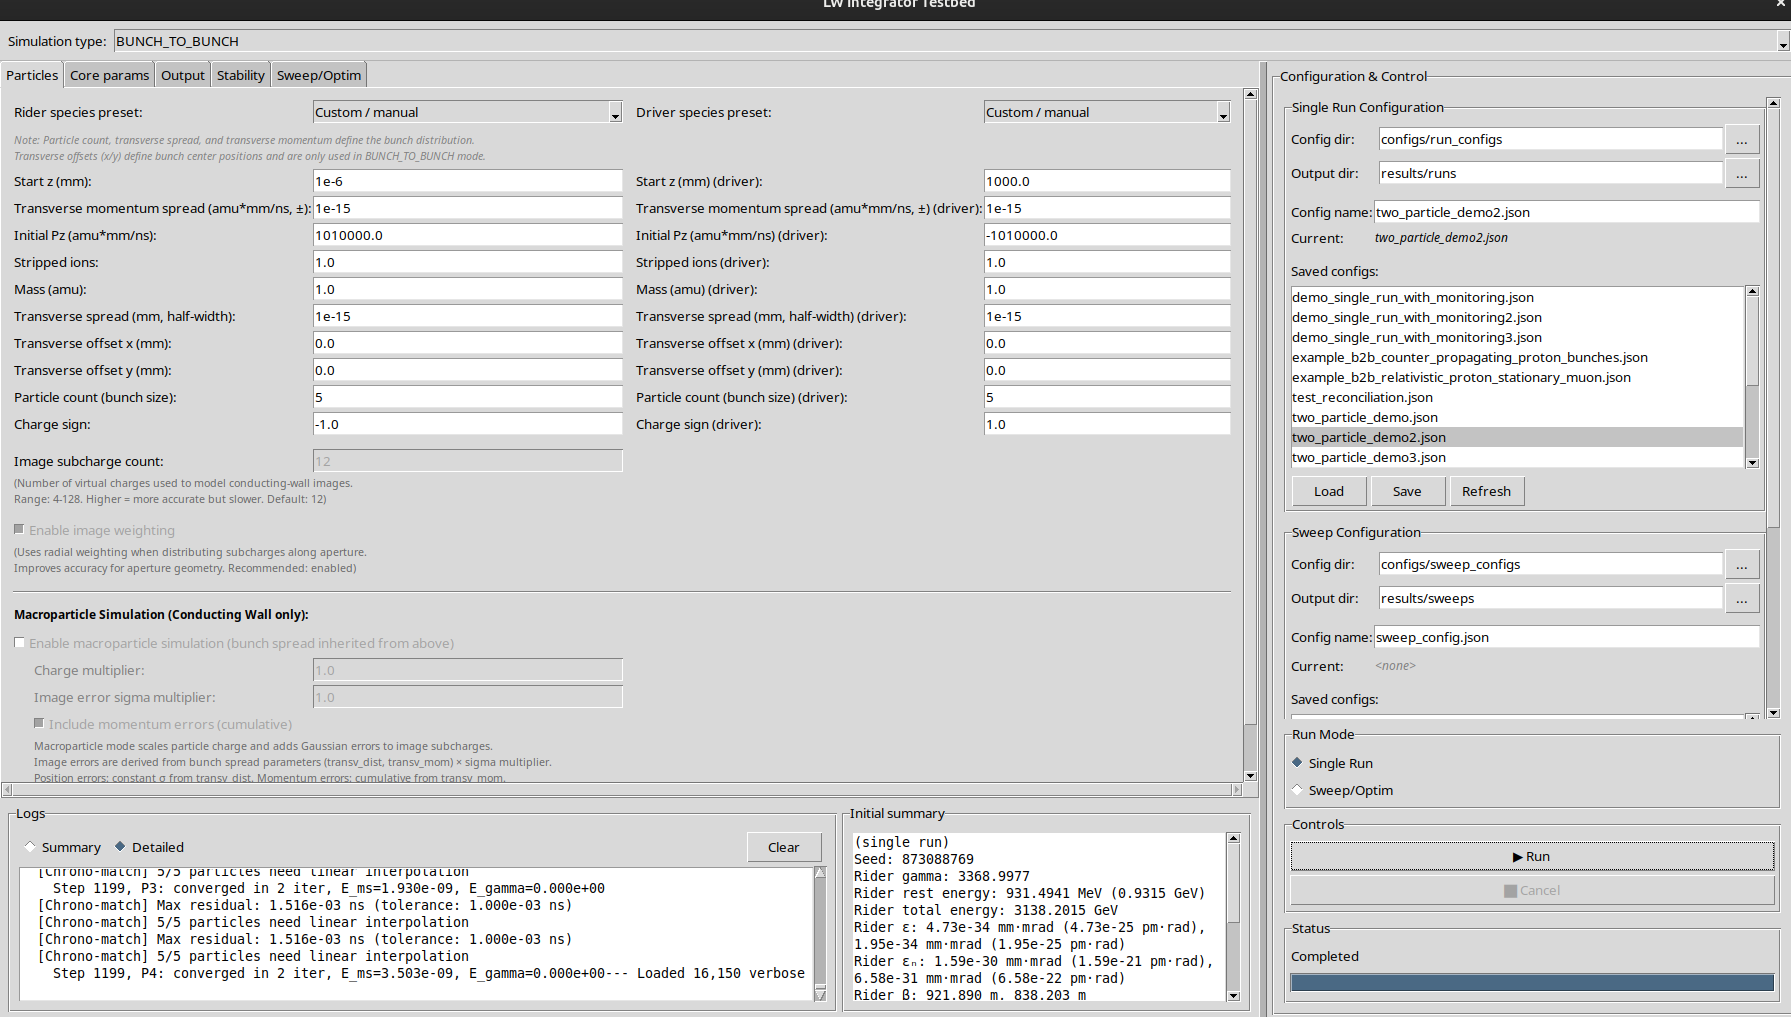
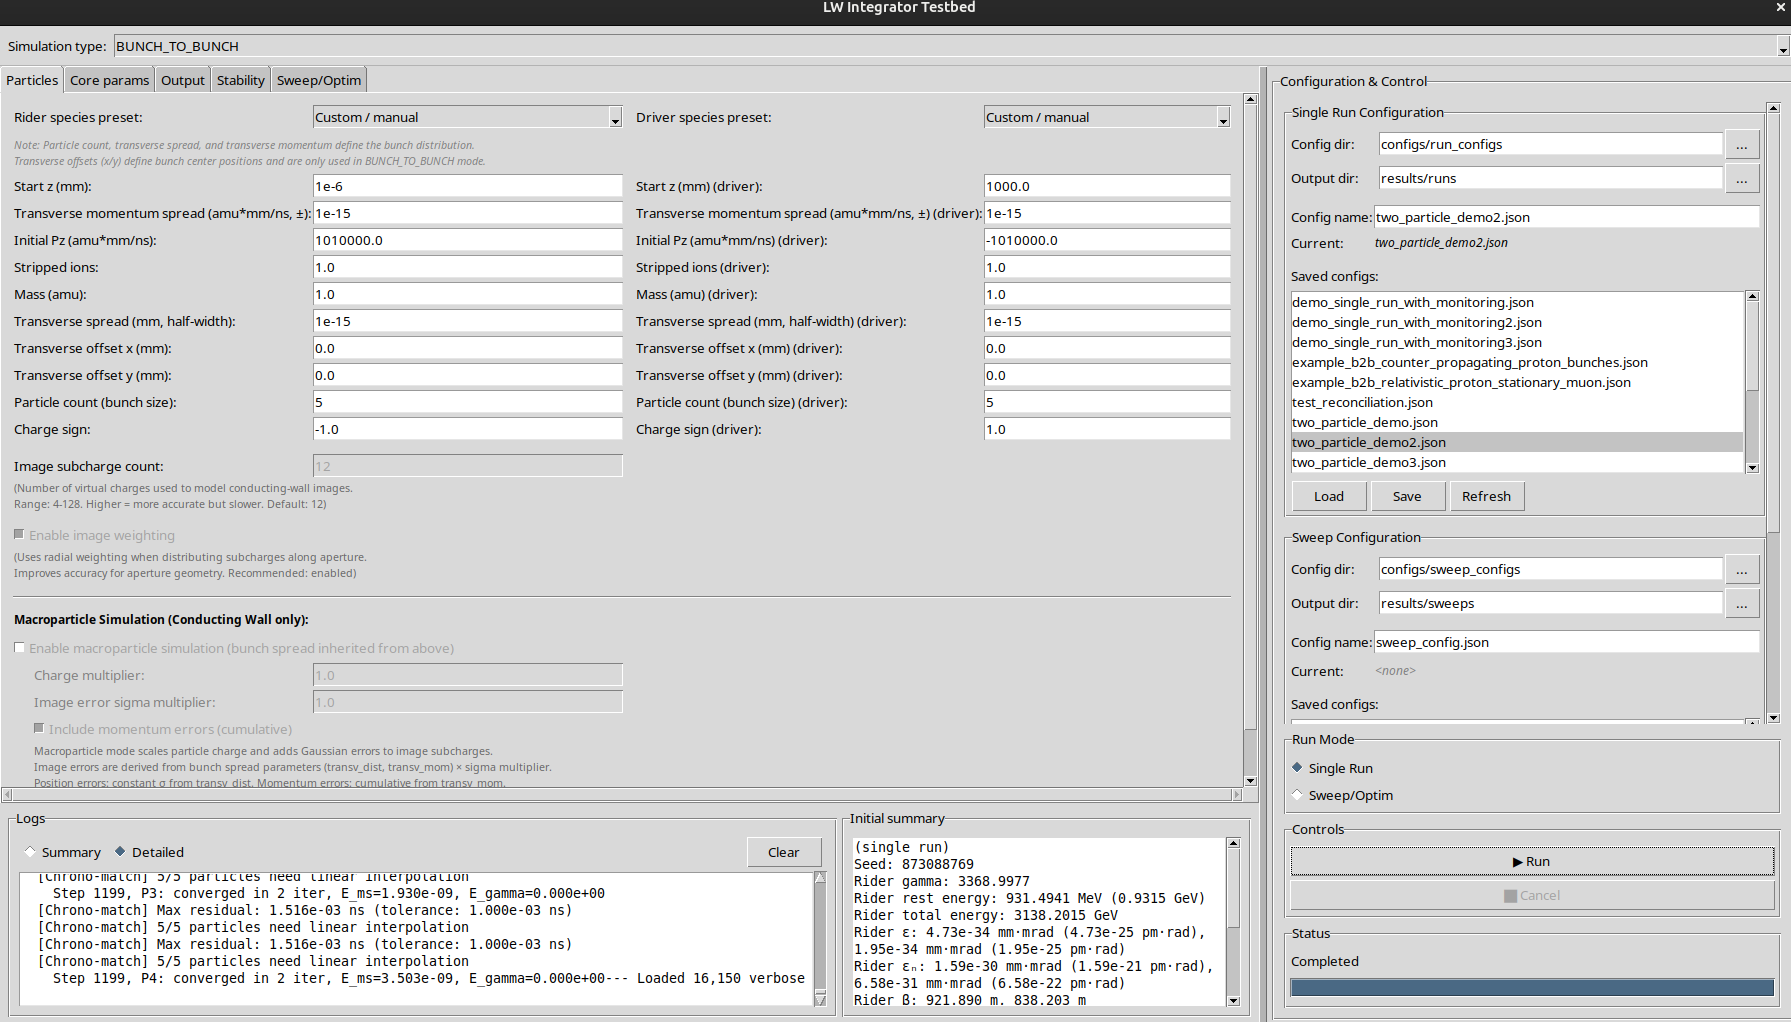
v0.6.4: trim README overview, recrop screenshot, add conducting-wall sweep example config

diff --git a/README.md b/README.md
@@ -52,12 +52,6 @@ residual-wake acceleration with a covariant retarded-potential integrator_
   retarded-vector potentials and conjugate-momentum dynamics. The `core`
   package is a faithful transcription of the proven legacy solver and is kept in
   numerical lockstep by an integration test suite.
-- **Startup strategies.** The integrator now exposes
-  :class:`core.types.StartupMode`, allowing cold-start runs that suppress
-  retarded forces during the short-history transient (default) or an
-  `APPROXIMATE_BACK_HISTORY` mode that reconstructs a constant-velocity past
-  for better legacy alignment. All entry points—CLI, scripts, and notebooks—take
-  the new enum so you can toggle behaviour without patching call sites.
 - **Self-consistency and energy conservation.** The integrator enforces the
   relativistic mass-shell constraint Pt² = P² + (mc)² through iterative
   projection during each timestep. Two modes are available:
@@ -113,26 +107,12 @@ residual-wake acceleration with a covariant retarded-potential integrator_
   calculations to accurately model beam emittance effects. Configured via GUI
   controls in the Particles tab (single runs) and optimization/sweep parameter
   sections. Only active for CONDUCTING_WALL simulation type.
-- **Reference publication.** For the scientific context, derivations, and
-  benchmark scenarios, see the project paper referenced above; the codebase
-  tracks the configurations described there.
-- **Documentation.** The refreshed Sphinx site under `docs/` explains the
-  theoretical background, quick-start workflows, validation procedures, and
-  contributor guidance. A new `theory` page summarises the covariant
-  derivations drawn from the in-repo technical note.
-- **Validation assets.** The `examples/validation` tree provides both Python
-  scripts and notebooks for reproducing benchmark comparisons between the
-  modern and legacy implementations. The refreshed `integrator_testbed`
-  notebook surfaces legacy overlays, difference plots, and live initial-state
-  summaries so physics regressions are immediately visible while you tweak
-  parameters. Its widget scaffolding now lives in
-  `examples/validation/testbed_ui.py` so you can import
-  `IntegratorTestbedApp` into other notebooks or scripts without duplicating
-  the layout logic.
-- **CLI entry point.** The `lw-simulate` console command (see the
-  [Command-line entry point](#command-line-entry-point) section below) runs the
-  core integrator with JSON-configurable inputs. A minimal demonstration lives
-  in `examples/entrypoint_demo.py`.
+- **GUI and CLI entry points.** The GUI (`python -m lw_integrator.gui`) provides
+  an interactive interface for single runs, parameter sweeps, and optimization,
+  with real-time logging and an initial-state summary panel. The `lw-simulate`
+  console command (see [Command-line entry point](#command-line-entry-point)
+  below) runs the same core code paths with JSON-configurable inputs. A minimal
+  CLI demonstration lives in `examples/entrypoint_demo.py`.
 
 ---
 
@@ -436,6 +416,7 @@ Simple example configs live under `configs/`. Load them via the GUI
 
 ### Sweep examples (`configs/sweep_configs/`)
 
-| File                                                | Description                                                                                                                                                                                                                 |
-| --------------------------------------------------- | --------------------------------------------------------------------------------------------------------------------------------------------------------------------------------------------------------------------------- |
-| `example_b2b_linked_energy_vs_driver_distance.json` | 80×80 log-spaced sweep of initial energy (0.5–3000 GeV) vs driver starting distance (10–100,000 mm) for counter-propagating proton bunches with linked rider/driver energy. Reproduces the energy-gain heatmap shown above. |
+| File                                                   | Description                                                                                                                                                                                                                 |
+| ------------------------------------------------------ | --------------------------------------------------------------------------------------------------------------------------------------------------------------------------------------------------------------------------- |
+| `example_b2b_linked_energy_vs_driver_distance.json`    | 80×80 log-spaced sweep of initial energy (0.5–3000 GeV) vs driver starting distance (10–100,000 mm) for counter-propagating proton bunches with linked rider/driver energy. Reproduces the energy-gain heatmap shown above. |
+| `example_conducting_wall_electron_aperture_sweep.json` | 50×50 log-spaced sweep of initial energy (1–500 GeV) vs aperture radius (15–75 µm) for a single electron rider approaching a conducting wall. Macroparticle mode enabled (charge multiplier ×1000, sigma multiplier ×2).    |
